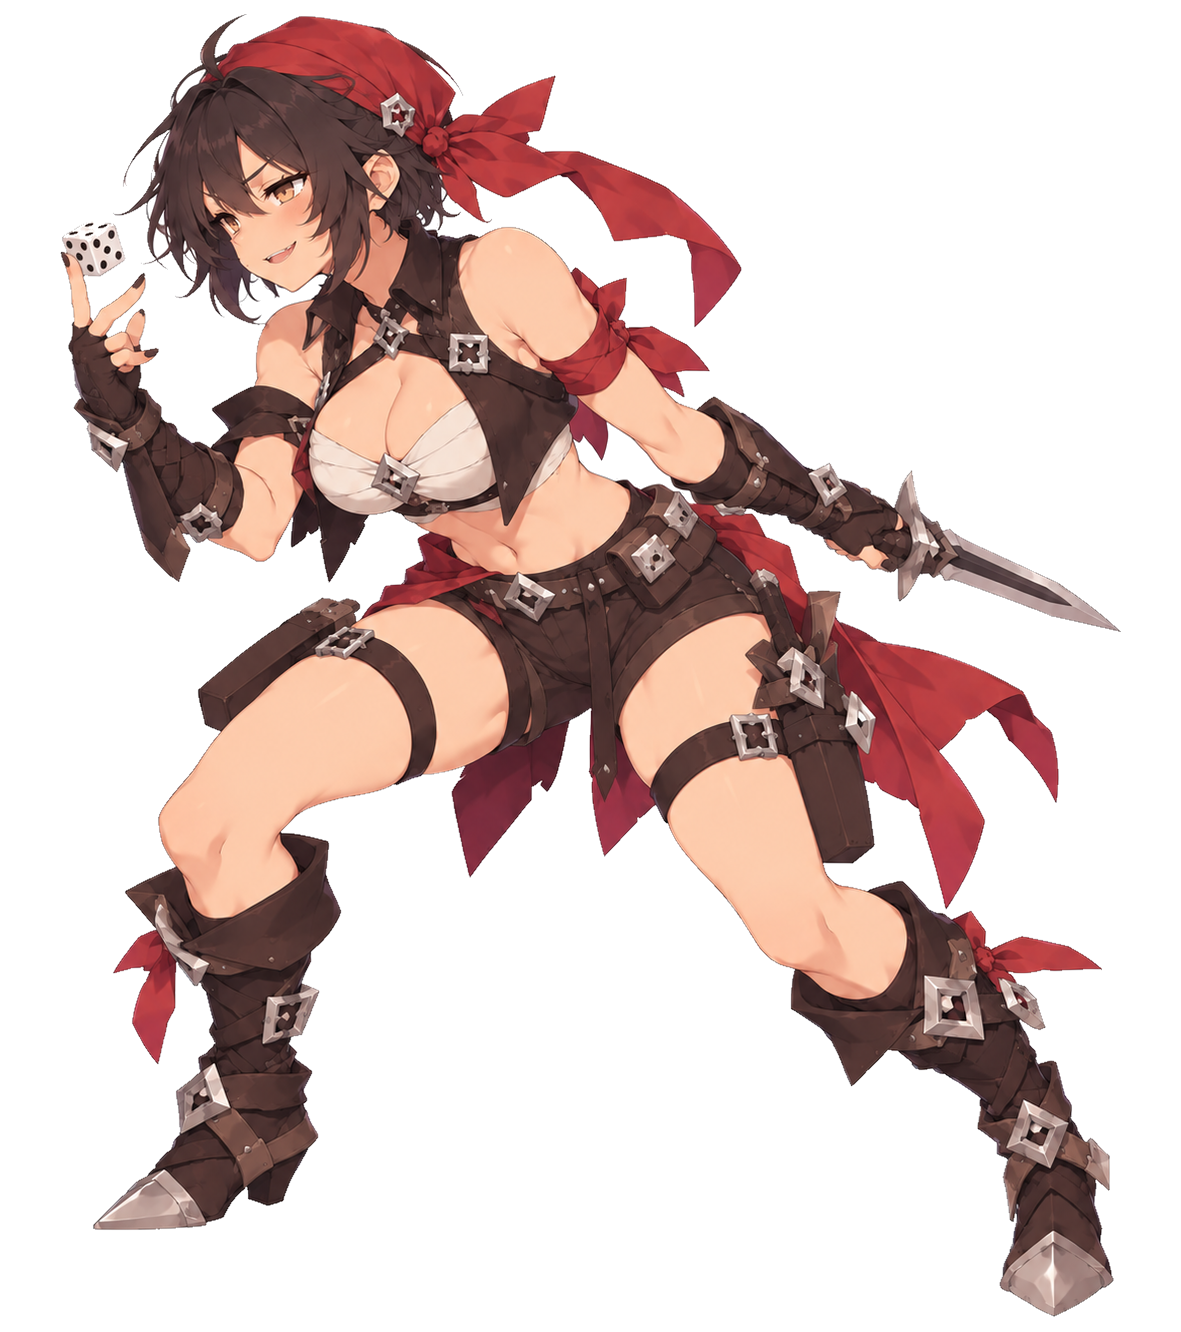
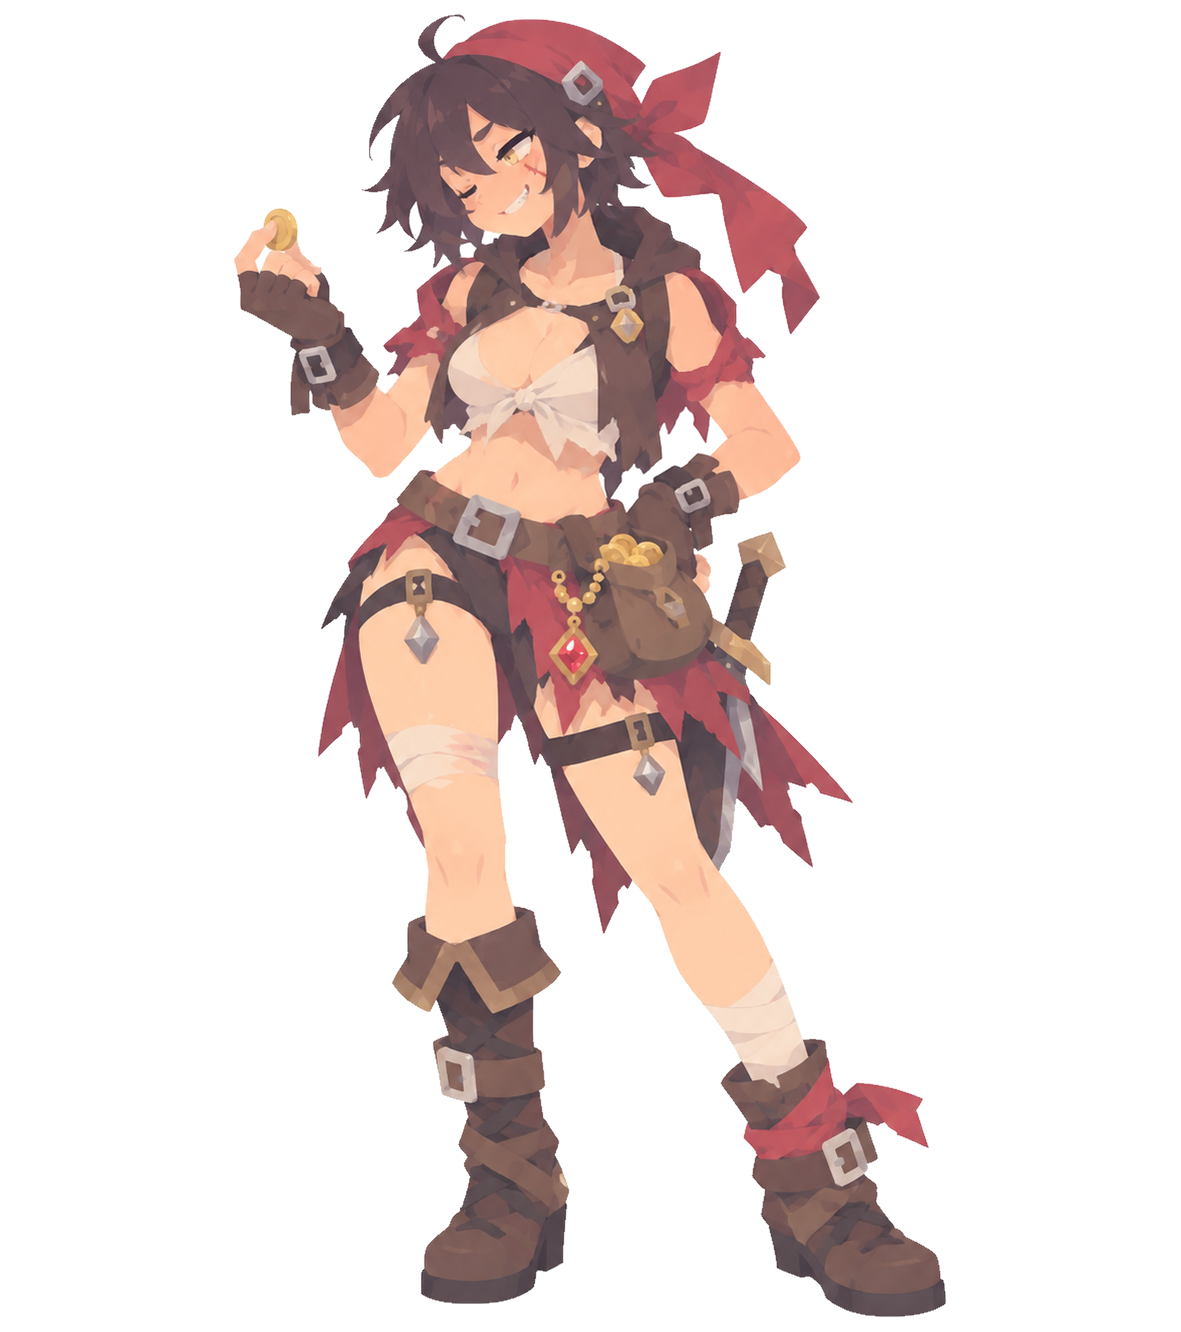
feat(art): 풋내기 용병·좀비 화풍 재작업 확정 (견습 모험가 기준)

diff --git a/docs/art/ART_RESOURCES.md b/docs/art/ART_RESOURCES.md
@@ -674,14 +674,14 @@ Work는 `resources/ui/` 이미지가 있으면 StyleBoxTexture로 쓰고, 없으
 | 순서 | 대상 | 모은 요청 | 상태 |
 |---|---|---|---|
 | 1 | 고블린 왕 | ✅ 2026-10-21 **최종 확정·적용** (셀프컷 더벅머리, 다리 벌려 앉기, 초록 피부 고블린 아인. 원본 `_reference/monsters/goblin_king/mo_goblin_king_full_v7.png`, 이전본 `full_before_r3.png`). (3차) **헤어 D(셀프컷 더벅머리) 채택** — 나뭇가지·잎 제거, 다리 편하게 벌려 앉기, 피부 균일한 초록의 확실한 고블린 아인. (2차) 헤어 재시안 — 긴 웨이브 금지, 무식하고 관리 안 된 느낌. 포즈는 확정본(앉은 자세) 유지 | 시안 D/E/F 제출(`qa_out/r3/gk_hair.png`) — 선택 대기 |
-| 2 | 영계의 지배자 | (6차) 6차 시안은 모든 장식이 바뀜 → b5 버전에서 **손에 든 장식만** 창끝으로. (5차) **b5 수정본 "딱 좋음"** — 손끝으로 짚은 끈 장식 끝만 마름모 → 왕관처럼 화살촉/창끝 모양. 나머지 변경 금지. (4차) 피부는 짙은 잿빛 말고 창백한 잿빛. 목각 인형처럼 목·다리가 꺾인 모양새로 섬뜩하게. (3차) **헤어 H(울프컷) 채택** — 정면 응시, 더 섬뜩한 웃음, 가슴 훨씬 작게, 피부는 어두운 잿빛, 맨발. (2차) 헤어 B(가는 트윈테일) 킵 + A 히메컷 **롱 버전** + 다른 헤어 여러 개. 포즈 ①(목 꺾임) 기준, 머리·몸 뒤틀림 조정, 다리는 꺾이듯 무너진 느낌(실제 골절 아님). 검은 배경 | 2차 시안 5종 제출(B·A롱·떠오르는 롱·울프컷·로우번, `qa_out/r3/sg_hair2.png`) — 선택 대기 |
+| 2 | 영계의 지배자 | (7차) 손 장식 OK — 소매·상반신의 마름모 장식만 제거, 나머지 유지. (6차) 6차 시안은 모든 장식이 바뀜 → b5 버전에서 **손에 든 장식만** 창끝으로. (5차) **b5 수정본 "딱 좋음"** — 손끝으로 짚은 끈 장식 끝만 마름모 → 왕관처럼 화살촉/창끝 모양. 나머지 변경 금지. (4차) 피부는 짙은 잿빛 말고 창백한 잿빛. 목각 인형처럼 목·다리가 꺾인 모양새로 섬뜩하게. (3차) **헤어 H(울프컷) 채택** — 정면 응시, 더 섬뜩한 웃음, 가슴 훨씬 작게, 피부는 어두운 잿빛, 맨발. (2차) 헤어 B(가는 트윈테일) 킵 + A 히메컷 **롱 버전** + 다른 헤어 여러 개. 포즈 ①(목 꺾임) 기준, 머리·몸 뒤틀림 조정, 다리는 꺾이듯 무너진 느낌(실제 골절 아님). 검은 배경 | 2차 시안 5종 제출(B·A롱·떠오르는 롱·울프컷·로우번, `qa_out/r3/sg_hair2.png`) — 선택 대기 |
 | 3 | 광란의 마수 | 헤어 사자갈기 + 엎드려 덮치기 직전 자세 | 시안 2종 제출(`qa_out/r3/fb.png`) — 선택 대기 |
-| 4 | 타락한 기사단장 | (6차) 검 디자인 다시(멋진 대검), 망토는 찢기지 않게. (5차) 방패 제거, 마력 폭주로 몸에 붉은 균열 추가(허벅지 상처처럼). (4차) 다시 그림 — 머리가 눌려 납작해 보임, 무기 디자인 재고. 옷은 찢기지 않고 정돈되게, 노출도는 유지하되 부분 갑옷으로 단단한 느낌. (3차) **검 꽂은 자세(시안 2) 채택** — 방패를 검 앞쪽에 기대 세움(검이 가려짐). (2차) 헤어 단발. 포즈 ③(검을 어깨에 걸침) 킵 — 꺾인 검 수정. 다른 자세도 추가 탐색 | 시안 3종 제출(③ 곧은 검 / 방패 뒤 검 짚기 / 방패 돌진, `qa_out/r3/fc2.png`) — 선택 대기 |
-| 5 | 공허의 눈 | (6차) 촉수 머리 "딱 좋음", 다른 건 유지 — 문어 촉수 빨판을 눈처럼, 검게 나온 발가락 수정. (5차) 복잡도 감소 OK — 머리 끝이 길게 뻗어 촉수처럼. (4차) 의자·몸·헤어 셰이프가 섞여 불분명 → 복잡도 낮춰 구분되게. 맨발 대신 고급스러운 신발. (3차) 촉수 어둡게 한 수정본 기준, 골반·다리 방향을 돌아간 허리에 맞춰 뒤틀림 해소. (2차) 포즈 ③ 채택. 뒤 촉수 색을 어둡게 해서 캐릭터 실루엣이 드러나게(조형 단순화) | 수정본 제출(`qa_out/r3/ve2.png`) — 확인 대기 |
-| 6 | 점액 군주 | **포즈 ③(엎드려 녹아 퍼짐) 채택**(2026-10-26) → 견습 모험가 화풍으로 재생성. 보스 최종 확정은 모든 보스 피드백이 끝난 뒤 한 번에 나열해서 컨펌 | 진행 중 |
-| 7 | 일반 18종 + 암흑 늑대 | (7차) ✅ **고블린·방패 고블린 확정·적용**(2026-10-26). 좀비: 의상은 6차와 이전 버전의 중간(구울 쪽으로 너무 감), 체형은 6차 유지, 아호게 제거. 구울: 6차 유지하되 가슴 크기·모양만 더 부어서 퍼진 모습으로. (6차) 고블린: 탐욕스러운 웃음(혀 X), 옷 면적 줄임, 후드 유지. 방패 고블린: 머리카락이 냄비 밖으로 안 나오게, 털 부츠, 겁쟁이 표정. 좀비: 이전(1차 시범) 버전의 넋 놓은 표정·볼륨 체형·창백한 피부로 복귀, 옷은 구울 수의가 썩기 전 단계처럼 바래고 옅게. 구울: 좀비와 다른 동작, 가스로 부은 굵은 허벅지. 늑대: 인형 옷 느낌 X — 맨살과 체모를 균형 있게. 풋내기 용병: 다친 전사 X → 탐욕스러운 용병 똘마니로 재디자인. 경비병: 머리가 검게 나옴, 여전히 착해 보임 → 완고·어둡고 차갑게, 색 변경 OK. 오크: 머리 뼈장식 제거, 살찐 **근육질**. 안개: 녹색 구름 인간 X → 더 안개답게. 화풍이 다시 세밀해지는 중 → 견습 모험가에 재동기화. (5차, 2026-10-26) 산적 → **풋내기 용병**(불량한 조직 똘마니, 짝짝이 눈, 흉터·상처, 두건 정리, 팔 꺾임 수정). 경비병은 완고·어둡고 차가운 기사. 오크는 원시인 헤어, 살찐 근육질, 단순 무식, 고블린과 다른 복장. 유령 OK, 안개는 유령과 셰이프·색감·복장 구분. **해골 전사·해골 궁수·망령 병사·해골 기사 제거**, 유령·그림자·안개·망령은 언데드형으로 재분류, 부정형은 새 컨셉(사용자 결정 대기) — Work INBOX 2026-10-26 전달. (4차) 고블린 3종 피부 OK — 표정이 다 똑같음 → 표정·복장을 개성에 맞게 다르게. 좀비 OK — 헤어만 변경(늑대와 똑같아 보임). 구울은 너무 구체적 → 원본처럼 단순하게, 헤어는 좀비와 다르게, 앞머리로 눈을 가림. 늑대 OK — 하반신 털이 복부까지 더 덮이게(상·하반신이 딱 나뉘지 않게). **주사위 눈금 오류 주의**(마주보는 면 합 7, 눈 배치 정확히). (3차, 시범 4종 피드백) 좀비·구울 방향 OK. 고블린 계열은 초록 피부의 확실한 아인, 탐욕적·야만적. 구울은 의상을 좀비와 다르게, 침 흘리고 지저분하게, 가스가 차서 더 볼륨 있게. 늑대는 하체 전부 짐승 형태, 털이 복부 근처까지. (재재작업) 화풍 기준을 **견습 모험가**로 — 지금은 너무 세밀함. 얼굴 개성 부여, 언데드 헤어 다양화(꼬인 긴 머리만 X), 좀비 얼굴이 검게 나오는 문제, 구울은 냄새나는 표정+연기 강조, 짐승형은 해당 짐승 특징이 더 드러나게(몬스터 무스메 느낌). 1차 재작업(2026-10-21)은 `_reference/monsters/<id>/full_before_restyle.png`가 원본 | 대기 |
+| 4 | 타락한 기사단장 | (7차) 디자인 유지, 견습 모험가와 같은 화풍으로 더 단순하게. (6차) 검 디자인 다시(멋진 대검), 망토는 찢기지 않게. (5차) 방패 제거, 마력 폭주로 몸에 붉은 균열 추가(허벅지 상처처럼). (4차) 다시 그림 — 머리가 눌려 납작해 보임, 무기 디자인 재고. 옷은 찢기지 않고 정돈되게, 노출도는 유지하되 부분 갑옷으로 단단한 느낌. (3차) **검 꽂은 자세(시안 2) 채택** — 방패를 검 앞쪽에 기대 세움(검이 가려짐). (2차) 헤어 단발. 포즈 ③(검을 어깨에 걸침) 킵 — 꺾인 검 수정. 다른 자세도 추가 탐색 | 시안 3종 제출(③ 곧은 검 / 방패 뒤 검 짚기 / 방패 돌진, `qa_out/r3/fc2.png`) — 선택 대기 |
+| 5 | 공허의 눈 | (7차) 발이 여전히 검게 나옴 → 원인: 흰 배경 제거가 창백한 발등 피부까지 지움(투명 → 게임 배경이 비침). 검은 배경으로 재생성. (6차) 촉수 머리 "딱 좋음", 다른 건 유지 — 문어 촉수 빨판을 눈처럼, 검게 나온 발가락 수정. (5차) 복잡도 감소 OK — 머리 끝이 길게 뻗어 촉수처럼. (4차) 의자·몸·헤어 셰이프가 섞여 불분명 → 복잡도 낮춰 구분되게. 맨발 대신 고급스러운 신발. (3차) 촉수 어둡게 한 수정본 기준, 골반·다리 방향을 돌아간 허리에 맞춰 뒤틀림 해소. (2차) 포즈 ③ 채택. 뒤 촉수 색을 어둡게 해서 캐릭터 실루엣이 드러나게(조형 단순화) | 수정본 제출(`qa_out/r3/ve2.png`) — 확인 대기 |
+| 6 | 점액 군주 | (2차) 화풍 정리본이 탁해져 점액 느낌이 없음 → 명암(광택) 더 넣고 몸의 다이아 장식 수 줄이기. **포즈 ③(엎드려 녹아 퍼짐) 채택**(2026-10-26) → 견습 모험가 화풍으로 재생성. 보스 최종 확정은 모든 보스 피드백이 끝난 뒤 한 번에 나열해서 컨펌 | 진행 중 |
+| 7 | 일반 18종 + 암흑 늑대 | (8차) ✅ **풋내기 용병(bandit)·좀비 확정·적용**. 늑대: 하의 길이 많이 줄이고 늑대 털로 덮이게. 경비병: 은발·창끝이 배경 제거로 지워짐 → 검은 배경 재생성. 오크: 살 조금 빼기. 안개: 실눈(눈 감은 듯한) 캐릭터, 유령과 다른 포즈. 구울: 뒤틀린 체형 바로잡기. **창백한 피부·은발·흰 옷은 무조건 검은 배경으로 생성**(흰 배경 제거가 같이 지움). (7차) ✅ **고블린·방패 고블린 확정·적용**(2026-10-26). 좀비: 의상은 6차와 이전 버전의 중간(구울 쪽으로 너무 감), 체형은 6차 유지, 아호게 제거. 구울: 6차 유지하되 가슴 크기·모양만 더 부어서 퍼진 모습으로. (6차) 고블린: 탐욕스러운 웃음(혀 X), 옷 면적 줄임, 후드 유지. 방패 고블린: 머리카락이 냄비 밖으로 안 나오게, 털 부츠, 겁쟁이 표정. 좀비: 이전(1차 시범) 버전의 넋 놓은 표정·볼륨 체형·창백한 피부로 복귀, 옷은 구울 수의가 썩기 전 단계처럼 바래고 옅게. 구울: 좀비와 다른 동작, 가스로 부은 굵은 허벅지. 늑대: 인형 옷 느낌 X — 맨살과 체모를 균형 있게. 풋내기 용병: 다친 전사 X → 탐욕스러운 용병 똘마니로 재디자인. 경비병: 머리가 검게 나옴, 여전히 착해 보임 → 완고·어둡고 차갑게, 색 변경 OK. 오크: 머리 뼈장식 제거, 살찐 **근육질**. 안개: 녹색 구름 인간 X → 더 안개답게. 화풍이 다시 세밀해지는 중 → 견습 모험가에 재동기화. (5차, 2026-10-26) 산적 → **풋내기 용병**(불량한 조직 똘마니, 짝짝이 눈, 흉터·상처, 두건 정리, 팔 꺾임 수정). 경비병은 완고·어둡고 차가운 기사. 오크는 원시인 헤어, 살찐 근육질, 단순 무식, 고블린과 다른 복장. 유령 OK, 안개는 유령과 셰이프·색감·복장 구분. **해골 전사·해골 궁수·망령 병사·해골 기사 제거**, 유령·그림자·안개·망령은 언데드형으로 재분류, 부정형은 새 컨셉(사용자 결정 대기) — Work INBOX 2026-10-26 전달. (4차) 고블린 3종 피부 OK — 표정이 다 똑같음 → 표정·복장을 개성에 맞게 다르게. 좀비 OK — 헤어만 변경(늑대와 똑같아 보임). 구울은 너무 구체적 → 원본처럼 단순하게, 헤어는 좀비와 다르게, 앞머리로 눈을 가림. 늑대 OK — 하반신 털이 복부까지 더 덮이게(상·하반신이 딱 나뉘지 않게). **주사위 눈금 오류 주의**(마주보는 면 합 7, 눈 배치 정확히). (3차, 시범 4종 피드백) 좀비·구울 방향 OK. 고블린 계열은 초록 피부의 확실한 아인, 탐욕적·야만적. 구울은 의상을 좀비와 다르게, 침 흘리고 지저분하게, 가스가 차서 더 볼륨 있게. 늑대는 하체 전부 짐승 형태, 털이 복부 근처까지. (재재작업) 화풍 기준을 **견습 모험가**로 — 지금은 너무 세밀함. 얼굴 개성 부여, 언데드 헤어 다양화(꼬인 긴 머리만 X), 좀비 얼굴이 검게 나오는 문제, 구울은 냄새나는 표정+연기 강조, 짐승형은 해당 짐승 특징이 더 드러나게(몬스터 무스메 느낌). 1차 재작업(2026-10-21)은 `_reference/monsters/<id>/full_before_restyle.png`가 원본 | 대기 |
 | 8 | 보스 6종 표정 세트 | 포즈·헤어 확정 후 | 대기 |
-| 9 | 스킬 아이콘 61종 리디자인 | **A(플랫 미니멀) 채택**(2026-10-26) — A 기준으로 색은 최대한 덜 쓰고 조형 단순화, **주사위 모양 정확히**(A 시안 왼쪽 위 빨간 주사위가 깨져 있었음). 샘플 4종 수정 후 61종 진행 | 진행 중 |
+| 9 | 스킬 아이콘 61종 리디자인 | **A(플랫 미니멀) 채택**(2026-10-26) — A 기준으로 색은 최대한 덜 쓰고 조형 단순화, **주사위 모양 정확히**(A 시안 왼쪽 위 빨간 주사위가 깨져 있었음). 샘플 4종 수정 후 61종 진행. (2차 샘플 피드백) 우하단(대포)처럼 **외곽선을 제한적으로** 쓰는 방식이 좋음 — 흰색 부분도 해당 아이콘 색상으로 맞춰 색이 뜨지 않게. (3차) 흰색을 아예 쓰지 않고 표현 | 진행 중 |
 | 10 | 이벤트 일러스트 16종 `resources/events/<id>.png` | 2026-10-21 Work 발주(96bf013, `docs/STATUS.md` "스토리/특수 이벤트 일러스트 발주 목록"). 캐릭터 원화 그림체, 가장자리 페이드로 화면 좌하단에 표시. **비율: 특수 이벤트 8종(판정·전용) 7:6 = 슬롯 420×360 / 스토리 8종 3:2 = 슬롯 420×290** (Work 2026-10-21 확인). 스토리 8 + 판정 4 + 캐릭터 전용 4(해적·곡예사·광전사·수호자) | 대기 |
 ## 4. 적용 계획 / 기록
 
@@ -756,6 +756,7 @@ Work는 `resources/ui/` 이미지가 있으면 StyleBoxTexture로 쓰고, 없으
 | 2026-10-20 | **보스 6종 v5 확정** (3-8 설정표 기준): 고블린 왕 안경+지팡이(팔 오류 2회 수정) / 영계의 지배자 4기사 모티브·슬림 체형 / 광란의 마수 광전사 언니 설정·버건디 #5E1A2A / 타락한 기사단장 바이저 마스크·얼굴 흉터·수호자 기사단 갑옷 / 공허의 눈 창백한 피부·X 흉터 안의 눈(B안 채택). 점액 군주는 v4 유지 | `resources/monsters/<boss>/full.png` 교체 | `qa_out/art_boss_v5_lineup.png` |
 | 2026-10-21 | **고블린 왕 최종 확정** (대기열 3-10 #1, 사용자 확인): 셀프컷 더벅머리, 다리를 편하게 벌려 앉은 자세, 균일한 초록 피부의 고블린 아인, 견습 모험가 기준 화풍. 원본 `_reference/monsters/goblin_king/mo_goblin_king_full_v7.png` | `resources/monsters/goblin_king/full.png` (코드 수정 없이 자동 적용). 보스 표정 세트(#8)는 아직 이전 디자인 기준 | `qa_out/r3/b4_new.png` |
 | 2026-10-26 | **고블린·방패 고블린 화풍 재작업 확정** (대기열 3-10 #7, 사용자 확인): 견습 모험가 기준 단순 화풍, 초록 피부 고블린 아인. 고블린 = 탐욕스러운 도둑(후드, 옷 면적 축소), 방패 고블린 = 겁쟁이 수집꾼(냄비 투구, 털 부츠). 원본 `_reference/monsters/<id>/mo_<id>_full_r3.png`, 이전본 `full_before_r3.png` | `resources/monsters/{goblin,shield_goblin}/full.png` (자동 적용) | `qa_out/r3/units_r6.png` |
+| 2026-10-26 | **풋내기 용병(구 산적)·좀비 화풍 재작업 확정** (대기열 3-10 #7, 사용자 확인): 풋내기 용병 = 탐욕스러운 용병 똘마니, 좀비 = 넋 놓은 표정·볼륨 체형·바랜 누더기+붕대·양갈래. 원본 `_reference/monsters/<id>/mo_<id>_full_r3.png`, 이전본 `full_before_r3.png` | `resources/monsters/{bandit,zombie}/full.png` (자동 적용) | `qa_out/r3/units_r6b.png`, `units_r7.png` |
 
 ---
 
